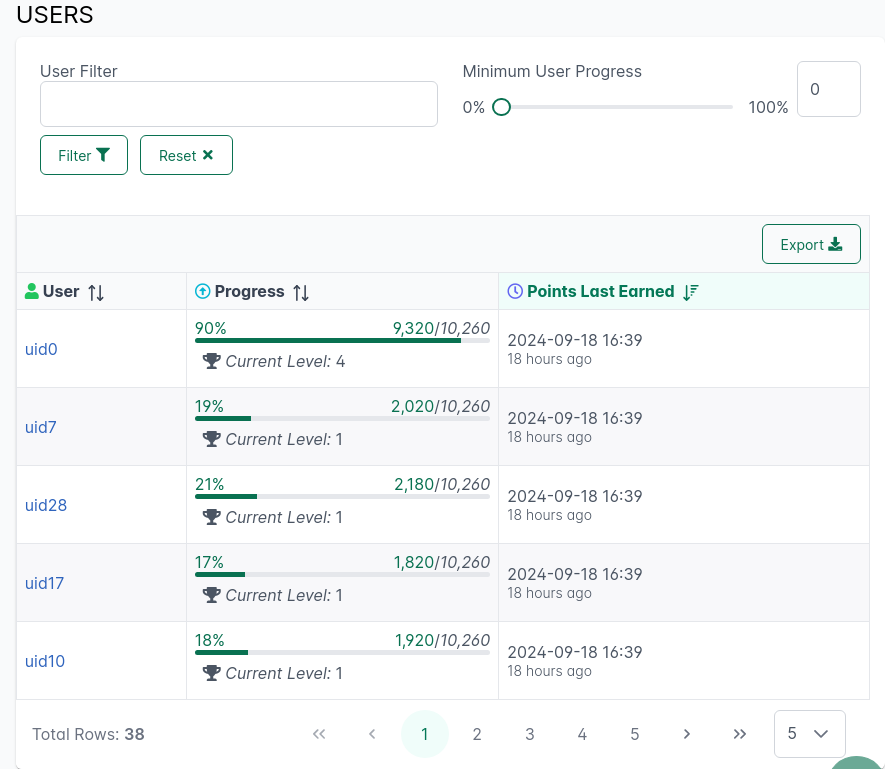
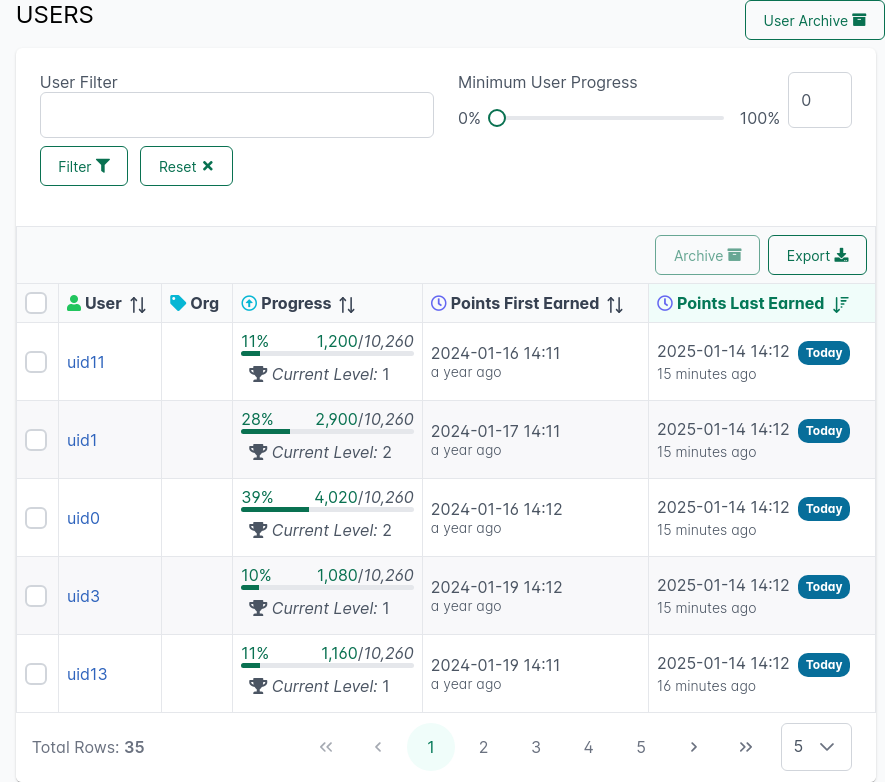
#302: document skills-service:3.3 release

diff --git a/cypress/e2e/admin.cy.js b/cypress/e2e/admin.cy.js
@@ -29,6 +29,19 @@ context('Admin: Generate Screenshots', () => {
         cy.snap('component-user_progress_table', '#mainContent2');
     })
 
+    it('Users Archive component', () => {
+        // projects page
+        cy.visit('/administrator/projects/movies/users')
+        cy.get('[data-cy="usersTable"] [data-p-index="0"] [data-pc-name="rowcheckbox"]').click()
+        cy.get('[data-cy="usersTable"] [data-p-index="1"] [data-pc-name="rowcheckbox"]').click()
+        cy.snap('component-users_table_ready_to_archive', '#mainContent2');
+        cy.get('[data-cy="archiveUsersTableBtn"]').click()
+
+        cy.get('[data-cy="userArchiveBtn"]').click()
+        cy.get('[data-cy="userArchiveTable"] [data-cy="skillsBTableTotalRows"]').should('have.text', '2')
+        cy.snap('component-users_archive', '#mainContent2');
+    })
+
     it('Gen Projects pages - dark mode', () => {
         cy.request('POST', '/app/userInfo/settings', [{
             'settingGroup': 'user.prefs',
@@ -215,8 +228,8 @@ context('Admin: Generate Screenshots', () => {
     it('Settings Page', () => {
         cy.visit('/administrator/projects/movies/settings')
         cy.contains('Discoverable');
-        cy.get('[data-cy="customLabelsSwitch"]').click();
         cy.snap('page-project-settings');
+        cy.snap('component-project-settings', '#mainContent2');
     })
 
     it('Email notification pages', () => {

diff --git a/docs/.vuepress/config.js b/docs/.vuepress/config.js
@@ -191,6 +191,7 @@ console.log(`Sidebar object:\n${JSON.stringify(sidebar, null, 2)}`);
 
 export default defineUserConfig({
     bundler: viteBundler(),
+    port: 9999,
     lang: 'en-US',
     description: 'Innovative approach to application training!',
     head: [

diff --git a/docs/skills-client/endpoints.md b/docs/skills-client/endpoints.md
@@ -76,6 +76,9 @@ Here is an example of an event that (1) was successfully applied, (2) completed/
    "skillId":"ImportantSkill",
    "name":"Important Skill",
    "pointsEarned": 15,
+   "totalPointsEarned": 30,
+   "totalPoints": 30,
+   "numOccurrencesToCompletion": 2,
    "skillApplied":true,
    "explanation":"Skill event was applied",
    "completed":[{
@@ -94,20 +97,23 @@ Here is an example of an event that (1) was successfully applied, (2) completed/
 
 Here is a reference table for result fields and their meaning:
 
-| Field | Type | Explanation | 
-| :------- | :----------- | :----------- | 
-| success | *boolean* | ``true`` if there were no issues reporting the skill, ``false`` if there was a server side failure - this could happen if the service is down or you stumbled on a bug |
-| projectId | *string* | the projectId that the report skill belongs to |
-| skillId | *string* | the skillId of the report skill |
-| name | *string* | the display name of the report skill |
-| pointsEarned | *number* | number of points earned by this request |
-| skillApplied | *boolean* | ``true`` if this event contributed points to the skill; ``false`` if the event didn't contribute points - ``explanation`` field will tell you why (see examples below) |
-| explanation | *string* | human readable explanation about how this skill event was handled; this field will explain why an event wasn't able to contribute points (see examples below) |
-| completed | *list* | metadata of a completed item if this event caused user to level-up, complete a skill or earn a badge/gem (just to mention a few) | 
-| completed.type | *string* | type of the completed item, will be one of these well-known values: ``Overall``, ``Subject``, ``Skill``, ``Badge``. ``Overall`` indicates that the user leveled-up for the entire project, ``Subject`` indicates that the user leveled-up for a specific subject, ``Skill`` indicates that this skill is fully accomplished, ``Badge`` indicates that a badge/gem was earned. |
-| completed.level | *int* | indicates which level the user achieved via this skill event; only applicable to ``Overall`` and ``Subject`` types |
-| completed.id | *string* | id of the completed item, in the case of ``Skill`` type this will be skill id, in the case of ``Subject`` type it will be subject id and so on... |
-| completed.name | *string* | human friendly name of the event and can be used to display to the end user | 
+| Field                                                                                       | Type      | Explanation                                                                                                                                                                                                                                                                                                                                                                   | 
+|:--------------------------------------------------------------------------------------------|:----------|:------------------------------------------------------------------------------------------------------------------------------------------------------------------------------------------------------------------------------------------------------------------------------------------------------------------------------------------------------------------------------| 
+| success                                                                                     | *boolean* | ``true`` if there were no issues reporting the skill, ``false`` if there was a server side failure - this could happen if the service is down or you stumbled on a bug                                                                                                                                                                                                        |
+| projectId                                                                                   | *string*  | the projectId that the report skill belongs to                                                                                                                                                                                                                                                                                                                                |
+| skillId                                                                                     | *string*  | the skillId of the report skill                                                                                                                                                                                                                                                                                                                                               |
+| name                                                                                        | *string*  | the display name of the report skill                                                                                                                                                                                                                                                                                                                                          |
+| pointsEarned                                                                                | *number*  | number of points earned by this request                                                                                                                                                                                                                                                                                                                                       |
+| totalPointsEarned <since project="skills-service" version="3.3" is-block="true" />          | *number*  | total points earned by this user for this skill                                                                                                                                                                                                                                                                                                                               |
+| totalPoints <since project="skills-service" version="3.3" is-block="true" />                | *number*  | total points defined by an administrator for this skill                                                                                                                                                                                                                                                                                                                       |
+| numOccurrencesToCompletion <since project="skills-service" version="3.3" is-block="true" /> | *number*  | number of times skill needs to be performed to earn all its points                                                                                                                                                                                                                                                                                                            |
+| skillApplied                                                                                | *boolean* | ``true`` if this event contributed points to the skill; ``false`` if the event didn't contribute points - ``explanation`` field will tell you why (see examples below)                                                                                                                                                                                                        |
+| explanation                                                                                 | *string*  | human readable explanation about how this skill event was handled; this field will explain why an event wasn't able to contribute points (see examples below)                                                                                                                                                                                                                 |
+| completed                                                                                   | *list*    | metadata of a completed item if this event caused user to level-up, complete a skill or earn a badge/gem (just to mention a few)                                                                                                                                                                                                                                              | 
+| completed.type                                                                              | *string*  | type of the completed item, will be one of these well-known values: ``Overall``, ``Subject``, ``Skill``, ``Badge``. ``Overall`` indicates that the user leveled-up for the entire project, ``Subject`` indicates that the user leveled-up for a specific subject, ``Skill`` indicates that this skill is fully accomplished, ``Badge`` indicates that a badge/gem was earned. |
+| completed.level                                                                             | *int*     | indicates which level the user achieved via this skill event; only applicable to ``Overall`` and ``Subject`` types                                                                                                                                                                                                                                                            |
+| completed.id                                                                                | *string*  | id of the completed item, in the case of ``Skill`` type this will be skill id, in the case of ``Subject`` type it will be subject id and so on...                                                                                                                                                                                                                             |
+| completed.name                                                                              | *string*  | human friendly name of the event and can be used to display to the end user                                                                                                                                                                                                                                                                                                   | 
  
 Here is an example where the skill event did not contribute any points because it's already fully accomplished: 
 ```json
@@ -117,6 +123,9 @@ Here is an example where the skill event did not contribute any points because i
    "skillId":"ImportantSkill",
    "name":"Important Skill",
    "pointsEarned": 0,
+   "totalPointsEarned": 200,
+   "totalPoints": 200,
+   "numOccurrencesToCompletion": 2,
    "skillApplied":false,
    "explanation":"This skill reached its maximum points",
    "completed":[]
@@ -131,6 +140,9 @@ Here is an example where the skill event did not contribute any points because i
    "skillId":"ImportantSkill",
    "name":"Important Skill",
    "pointsEarned": 0,
+   "totalPointsEarned": 0,
+   "totalPoints": 200,
+   "numOccurrencesToCompletion": 2,
    "skillApplied":false,
    "explanation":"Not all dependent skills have been achieved. Missing achievements for 1 out of 1. Waiting on completion of [FirstProject:skill1Skill].",
    "completed":[]
@@ -145,6 +157,9 @@ Below is an example where the skill contributed points but did not complete anyt
    "skillId":"ImportantSkill",
    "name":"Important Skill",
    "pointsEarned": 15,
+   "totalPointsEarned": 30,
+   "totalPoints": 45,
+   "numOccurrencesToCompletion": 3,
    "skillApplied":true,
    "explanation":"Skill event was applied",
    "completed":[]

diff --git a/docs/dashboard/user-guide/projects.md b/docs/dashboard/user-guide/projects.md
@@ -43,7 +43,7 @@ The Dashboard user that creates a project is automatically granted the role of a
 
 To manage and view project-wide settings navigate to ``Project -> Settings``. 
 
-![Project Settings](../../screenshots/admin/page-project-settings.png)
+![component-project-settings.png](../../screenshots/admin/component-project-settings.png)
 
 The following project-level settings are available: 
 
@@ -129,6 +129,20 @@ If this is the case, admins can customize the following labels displayed to user
 ### Setting: Always Show Group Descriptions
 
 Toggle this setting to always show the group's descriptions in this project embedded Skills Display component and Progress and Ranking pages.
+
+### Setting: Hide Group Info On Skill Pages <since project="skills-service" version="3.3" />
+
+By default, the skill page displays the group name and description when a skill is part of a Skill Group. Enabling this
+setting will hide the group's information from the skill page.
+
+### Setting: Hide Achievement Celebration <since project="skills-service" version="3.3" />
+
+Trainee achievement celebrations are displayed throughout training displays when levels, badges, and skills are
+achieved. These congratulatory messages can be hidden by enabling the `Hide Achievement Celebration` setting.
+
+### Setting: Project Deletion Protection <since project="skills-service" version="3.3" />
+
+When this setting is enabled, project deletion will be prevented, and the Delete button will be hidden. 
 
 ## Access
 The Project Access page supports adding or removing Project Administrators, Project Approvers, and inviting users to join a project if the project has been configured as an Invite Only project as well as revoking a user's access.
@@ -222,6 +236,56 @@ The following training profile elements are **NOT** copied into a new project:
 ::: tip
 Once a project has been copied, the new project is disconnected from the original such that changes to the original project will not be reflected in the copy
 :::
+
+## Copy Subject to Another Project <since project="skills-service" version="3.3" />
+
+A subject in its entirety can be easily copied from one project to another. To do this, navigate to the Subject page and
+click the `Copy` button located on the top-left of the screen, right below the subject's name. Once the copy operation
+is initiated, you will be guided through the destination project selection.
+
+The following subject's training profile elements are copied:
+- Subject's attributes (icon, description, help URL)
+- Skills definitions and their attributes (description, points, self-reporting, etc.)
+- Skill Groups
+- Configured display order of subject's skills
+- Subject's levels
+
+::: tip
+After copying a subject, the new subject becomes independent of the original, and any changes made to the original
+subject will not affect the copied subject
+:::
+
+The following elements are excluded from the subject copying process:
+- Reused skills
+- Imported catalog skills
+- Cross-project prerequisites
+
+::: warning
+When copying a subject to another project, the destination project must meet the following requirements:
+
+* It must not have an existing subject with the same name or ID.
+* It must not have any skills with IDs or names that match the copied subject's skills.
+:::
+
+## Copy Skills to Another Project <since project="skills-service" version="3.3" />
+
+Skills can be copied individually or in batches from one project to another. To do so:
+
+* Navigate to the Subject page
+* Select one or more skills
+* Click the Actions drop-down button at the top-right of the skills' table
+* Select "Copy to another Project"
+
+Once the copy operation is initiated, you will be guided through the process of selecting a destination project and subject or skill group.
+
+::: tip
+After copying skills, the new skills become independent of the originals, and any changes made to the originals will not affect the copied skills.
+:::
+
+::: warning
+Note that the destination project must not have any subjects, badges, or skills with IDs or names that match the copied skills.
+:::
+
 
 ## Share Project
 

diff --git a/docs/release-notes/skills-service.md b/docs/release-notes/skills-service.md
@@ -8,9 +8,50 @@ To obtain deployable artifacts please visit [Distributions](/dashboard/install-g
 
 </conditional>
 
+## 3.3.0 <release-date date="January 2025" />
+- Ability to [archive and restore users](/dashboard/user-guide/users.html#users-archive) in batch or individually, with archived users excluded from project visualizations, metrics, and tables
+- Ability to copy training profile components between projects
+  - [Batch skill definition copying](/dashboard/user-guide/projects.html#copy-skills-to-another-project) from one project to another
+  - [Copying subject definitions](/dashboard/user-guide/projects.html#copy-subject-to-another-project), including all skills, from one project to another
+- Trainee achievement celebrations with congratulatory messages displayed throughout training displays when levels, badges, and skills are achieved
+  - Added [project configuration option](/dashboard/user-guide/projects.html#setting-hide-achievement-celebration) to disable achievement celebrations
+- Enhanced Project Deletion Protection
+  - Clear warning of permanent removal of users and definitions  
+  - Requirement for multiple administrator acknowledgments before removal
+  - New project setting: [Project Deletion Protection](/dashboard/user-guide/projects.html#setting-project-deletion-protection) to prevent deletion when enabled
+- Introduced "Points First Earned" column on users table for project, subject, skill, and badge administrative pages
+- Self Reported skills enhancements
+  - Feedback provision to users when approving self-reported skills
+  - Historical display of self-reporting requests and responses
+  - Trainee access to submitted justification for self-reported skills
+- Skills Group usage improvements
+  - Enhanced skill page display with group name and description
+    - Group name/description display can be [disabled/enabled by project administrators](/dashboard/user-guide/projects.html#setting-hide-group-info-on-skill-pages)
+  - Ability to collapse and expand all Skills Groups, with expansion state persisted in browser local storage
+- Embedded video resizing
+  - Administrator configuration of default [video](/dashboard/user-guide/skills.html#videos) size
+  - Trainees can resize videos, and their personalized configurations are automatically persisted in the browser's local storage
+- Enhanced the [result object](/skills-client/endpoints.html#endpoint-result-object) returned by the [Report Skill Endpoint](/skills-client/endpoints.html#report-skill-event-endpoint) to include information about the earned and available points for the skill.
+- Improved terminology for Quiz and Survey Choice questions
 
+
+## 3.2.5 <release-date date="December 2024" />
+- Spring Boot Upgrade
+
+## 3.2.4 <release-date date="December 2024" />
+- Bug Fixes
+
+## 3.2.3 <release-date date="December 2024" />
+- Bug Fixes
+
+## 3.2.2 <release-date date="November 2024" />
+- Spring Boot Upgrade
+
+## 3.2.1 <release-date date="November 2024" />
+- Bug Fixes 
+ 
 ## 3.2.0 <release-date date="November 2024" />
-- Introduced the ability to manage project and quiz administrators in [groups](/dashboard/user-guide/admin-groups.html.
+- Introduced the ability to manage project and quiz administrators in [groups](/dashboard/user-guide/admin-groups.html).
   - The new approach allows for simple creation and management of Admin Groups.
   - Admin groups can easily be assigned to multiple projects and/or quizzes.
 - Introduced a brand-new quiz question type: `Input Text` with a comprehensive grading mechanism.

diff --git a/docs/dashboard/user-guide/quizzes-and-surveys.md b/docs/dashboard/user-guide/quizzes-and-surveys.md
@@ -45,8 +45,8 @@ or can be executed independently. Associating a Quiz to an existing skill will r
 in order to earn the skill and its points. In the case of a quiz, then the quiz serves as the skill's knowledge check.
 
 Quizzes currently support two types of questions:
-- ``Single Choice`` - question will only have 1 correct answer 
-- ``Mulitple Choice`` - question has 2 or more correct choices; all correct choices must be selected to get credit for the question
+- ``Multiple Choice`` - question will only have 1 correct answer 
+- ``Multiple Answers`` - question has 2 or more correct choices; all correct choices must be selected to get credit for the question
 - ``Input Text`` - question for test-takers to provide a free-form text answer that will later be graded by a quiz administrator
 
 To administer a quiz click `Manage` button for that quiz on the `Quizzes and Surveys` page. 
@@ -59,12 +59,6 @@ To add a new question please click `Question +` button.
 
 The Question's text supports all the same features that the [Description Editor](/dashboard/user-guide/rich-text-editor.html) currently affords which 
 includes a generous feature set including attaching or copy-and-pasting screenshots. 
-The two supported question's types and ``Single Choice`` and ``Mulitple Choice`` and are implicitly derived from the number of the selected correct answers.
-A single selected correct answer implies ``Single Choice`` question type and when more than one corrected answers selected then ``Mulitple Choice`` is used.
-::: tip
-When multiple correct answers are selected users will be required to properly identify all of those correct answers in
-order to receive the credit for the question
-:::
 
 ::: tip
 Use the `Preview` button on the top left below the Quiz name in order to see what the quiz will look like to your users.
@@ -148,8 +142,8 @@ When associated to a skill, the survey is a method to gather feedback about that
 pieces of important data related to the skill. 
 
 A Survey currently supports four types of questions:
-- ``Single Choice`` - question will only allow a single choice to be selected
-- ``Mulitple Choice`` - one or more choices are required to be selected  
+- ``Multiple Choice`` - question will only allow a single choice to be selected
+- ``Multiple Answers`` - one or more choices are required to be selected  
 - ``Text Input`` - a freeform answer text is required
 - ``Rating`` - a star-based rating question with an ability configure between 3 and 10 stars  
 
@@ -163,7 +157,7 @@ To add a new question please click the `Question +` button.
 
 The Question's text supports all the same features that the [Description Editor](/dashboard/user-guide/rich-text-editor.html) currently affords which
 includes a generous feature set including attaching or copy-and-pasting screenshots.
-Please use the Answer's dropdown to select the type, currently available options are  ``Single Choice``, ``Mulitple Choice`` and ``Text Input``.
+Please use the Answer's dropdown to select the type.
 
 ::: tip
 Use the `Preview` button on the top left below the Survey name in order to see what the survey will look like to your users.

diff --git a/docs/dashboard/user-guide/users.md b/docs/dashboard/user-guide/users.md
@@ -32,6 +32,25 @@ Additionally, you can export the table data into an Excel file by clicking the E
 Note that the export will respect any currently applied filters.
 :::
 
+## Users Archive <since project="skills-service" version="3.3" />
+
+Users can be archived and restored in batches or individually. Archived users are excluded from project visualizations, metrics, and tables.
+
+To archive a user, follow these steps:
+
+- Navigate to the Users page under a project.
+- Select one or more users in the users table.
+- Click the Archive button.
+
+![component-users_table_ready_to_archive.png](../../screenshots/admin/component-users_table_ready_to_archive.png)
+
+The archive can be viewed by clicking the `User Archive` button, located on the top-right, above the users table's components.
+
+![component-users_archive.png](../../screenshots/admin/component-users_archive.png)
+
+To restore an archived user, simply click the `Restore` button for that user.
+
+
 ## User Roles
 
 ### Default User

diff --git a/docs/dashboard/user-guide/progress-and-ranking.md b/docs/dashboard/user-guide/progress-and-ranking.md
@@ -81,7 +81,7 @@ A single quiz or survey attempt will display the results of that attempt. In the
 
 In the case of a quiz, there are a number of possible conditions based on the status of the attempt:
 - `Passed` Quiz: all the questions and answers are shown
-- `Failed` Quiz: by default only manually graded (`Text Input`) answers are shown, `Single Choice` and `Multiple Choice` answers are not displayed; however if [Show Correct Answers On Failure](/dashboard/user-guide/quizzes-and-surveys.html#quiz-settings) setting is enabled then all the answers are displayed
+- `Failed` Quiz: by default only manually graded (`Text Input`) answers are shown, `Multiple Answers` and `Multiple Choice` questions are not displayed; however if [Show Correct Answers On Failure](/dashboard/user-guide/quizzes-and-surveys.html#quiz-settings) setting is enabled then all the answers are displayed
 - `Needs Grading` Quiz: answers are not displayed
 
 ## Badges Page

diff --git a/docs/dashboard/user-guide/skills.md b/docs/dashboard/user-guide/skills.md
@@ -81,6 +81,14 @@ When captions are configured the video player will present an option to turn cap
 Captions utilize [Web Video Text Tracks Format (WebVTT)](https://developer.mozilla.org/en-US/docs/Web/API/WebVTT_API) format 
 and its input form offers an ability to prefill an example in WebVTT format by clicking `Add Example` button above the `Captions` input field.  
 
+::: tip
+Configure the video size by dragging the button on the bottom-right corner of the video. After resizing, click the 
+**Save Changes** button to persist the new dimensions.
+
+Trainees can also resize videos, and their personalized configurations will be automatically saved in the browser's
+local storage and will take priority over the default.
+:::
+
 ### Achieve Skill By Watching the Video 
 
 Once the video's settings are specified the skill can also be configured to be achieved after the trainee watched the entire video (>96%). 
